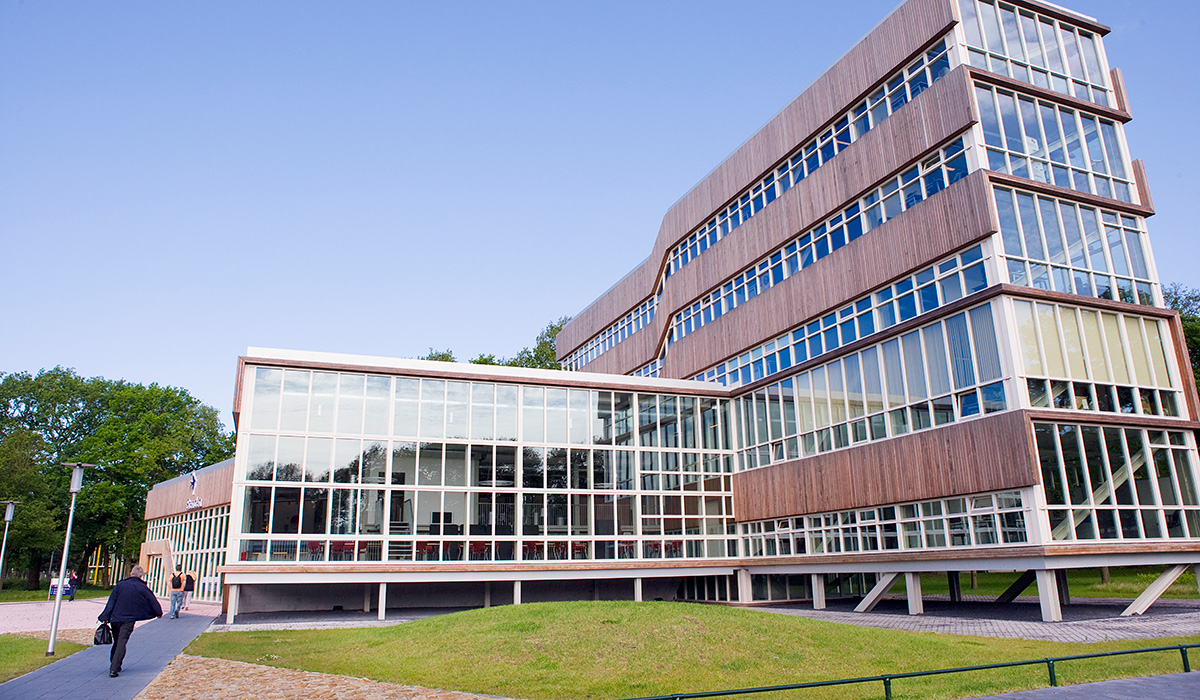
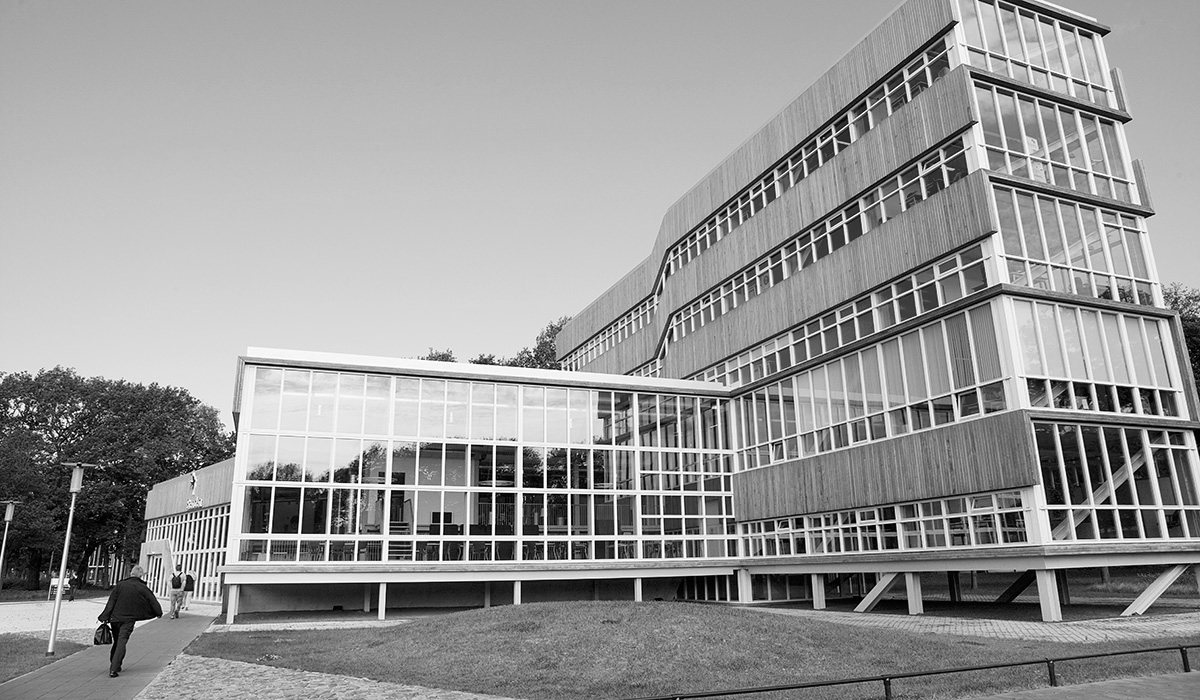
modified middle and made picture black/white

diff --git a/css/index_body.css b/css/index_body.css
@@ -6,6 +6,9 @@
   margin-top: 40px;
   background-image: url("../images/mid.jpg");
   height: 280px;
+  color:white;
+  text-align: center;
+  padding-top: 20px;
 }
 .bottom {
   margin-top: 40px;

diff --git a/index.php b/index.php
@@ -52,7 +52,10 @@
 
     </section>
     <section class="mid">
-
+      <img src="./images/circle.png"  height="100" width="100">
+      <p>Lorem ipsum dolor sit amet, consectetur adipiscing elit.<br>
+        Aenean scelerisque magna nibh. Nam ligula lectus,<br>
+        <h4>-dasdsad</h4>
     </section>
     <section class="bottom">
       <h1><?php echo $businessName; ?></h1>
